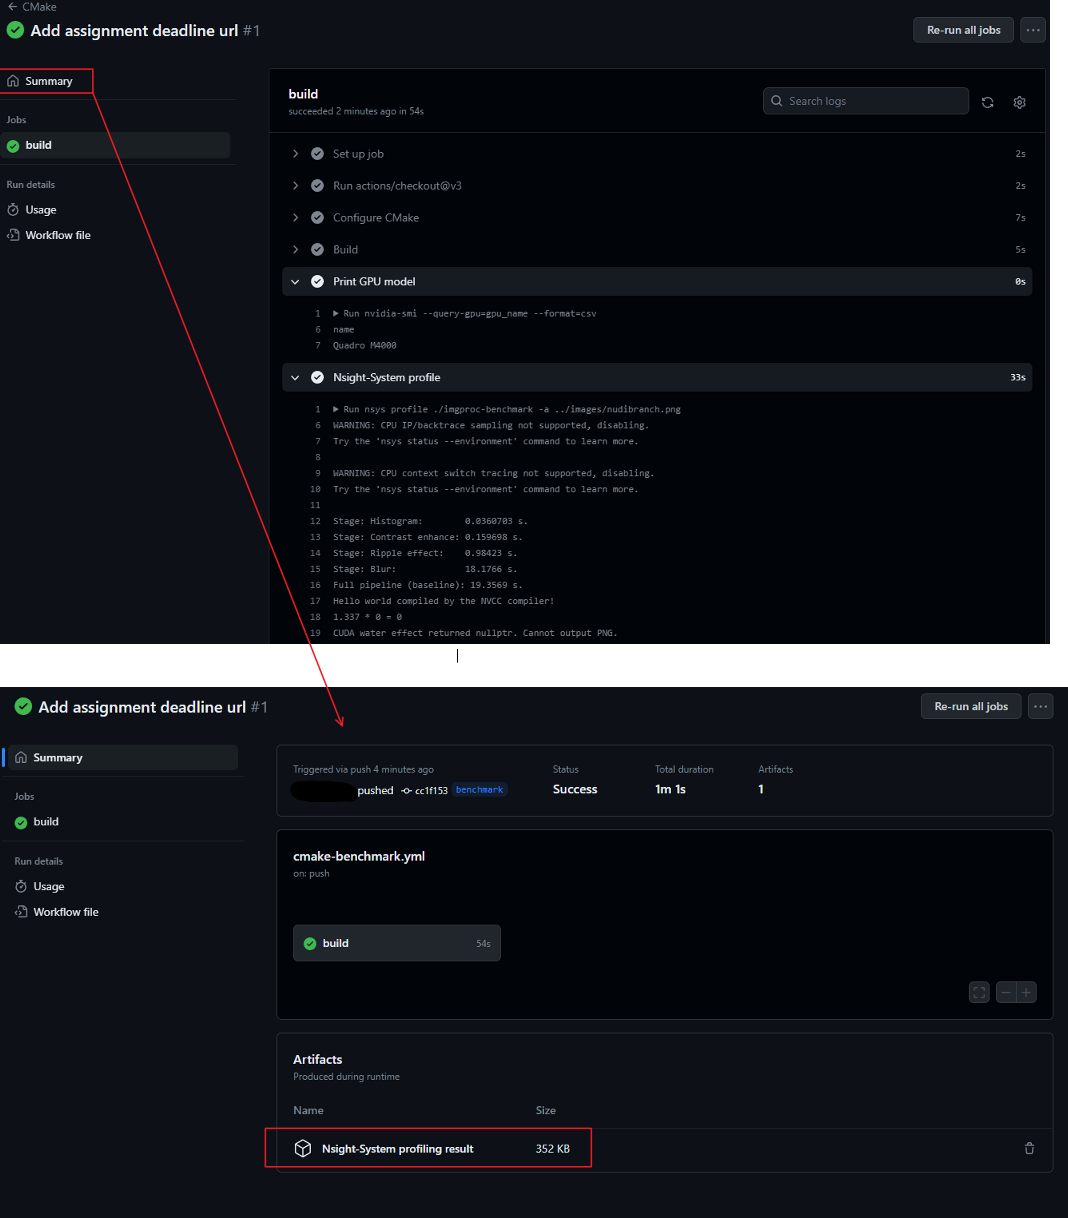
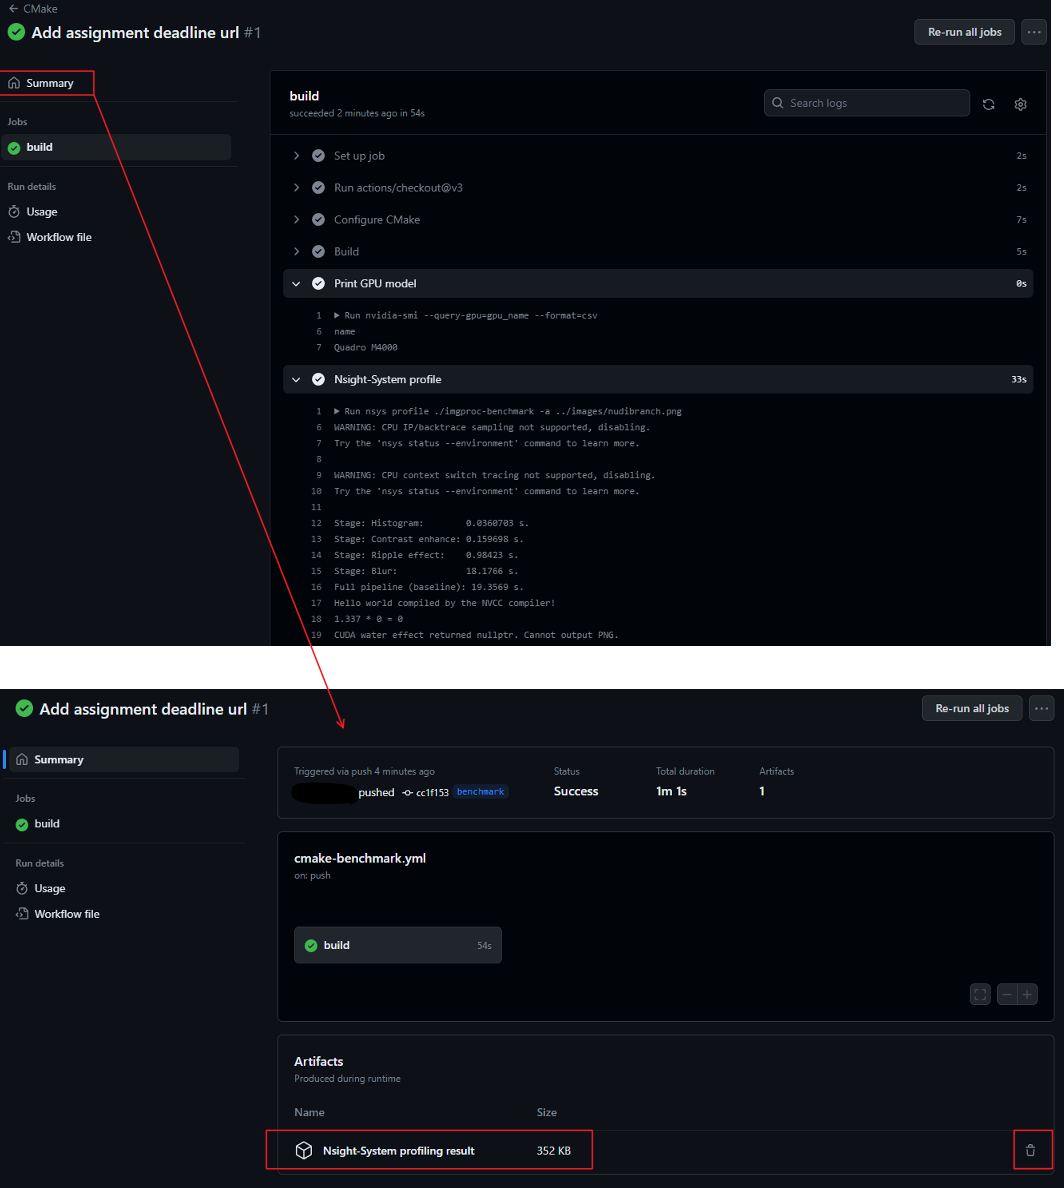
update.

diff --git a/README.md b/README.md
@@ -45,7 +45,7 @@ CUDA code.
 Even if you don't have an NVIDIA GPU, you can still install the CUDA toolkit.
 This is useful if you want to use the graphical profiling tool `nsight-sys`.
 
-For Ubuntu, you can install CUDA toolkit by `sudo apt install nvidia-cuda-toolkit`.
+For Ubuntu, you can install the CUDA toolkit by `sudo apt install nvidia-cuda-toolkit`. For Nsight, please download the `.deb` package from the link below.
 
 * [NVIDIA CUDA Toolkit](https://developer.nvidia.com/cuda-toolkit)
 * [NVIDIA Nsight Systems](https://developer.nvidia.com/nsight-systems)
@@ -181,7 +181,9 @@ After execution, you can find a report file called `report{x}.nsys-rep` in your 
 ![Nsight systems](https://raw.githubusercontent.com/tud-acs/lab2-ci/development/images/readme/nsight_sys.png "Example Nsight systems result")
 
 ## Use Github CI to benchmark your code
-For lab2, you can use the Github Runner to benchmark and profile your code by pushing your code to `benchmark` branch. The Nsight system report is available in Artifacts.
+For lab2, you can use the GitHub Runner to benchmark and profile your code by pushing your code to the `benchmark` branch. The Nsight system report is available in Artifacts. Notice that Nsight reports will only be removed after 24 hours because of the storage limitation.
+
+__IMPORTANT__: Delete your Nsight report by clicking the trash bin after downloading it.
 
 <img src="https://raw.githubusercontent.com/tud-acs/lab2-ci/development/images/readme/nsight_result.png" height="800">
 
